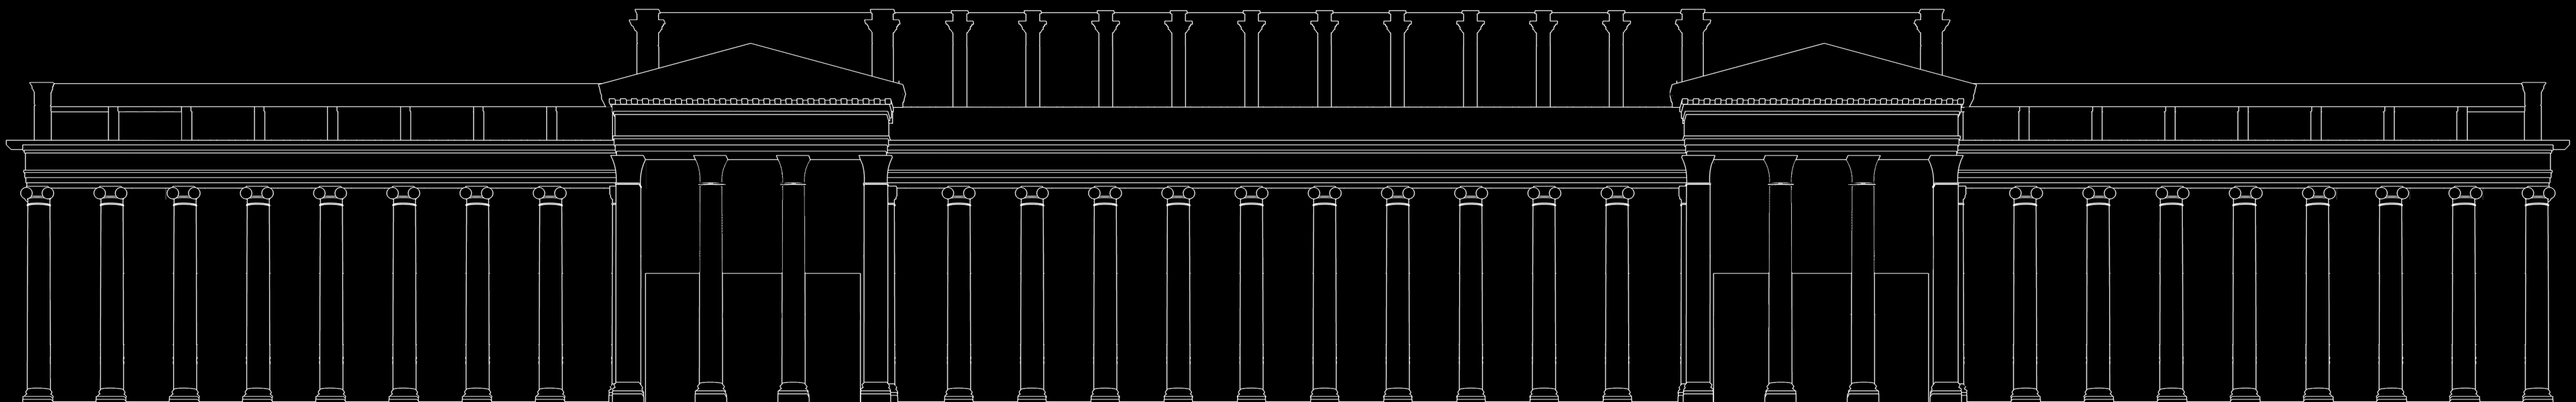
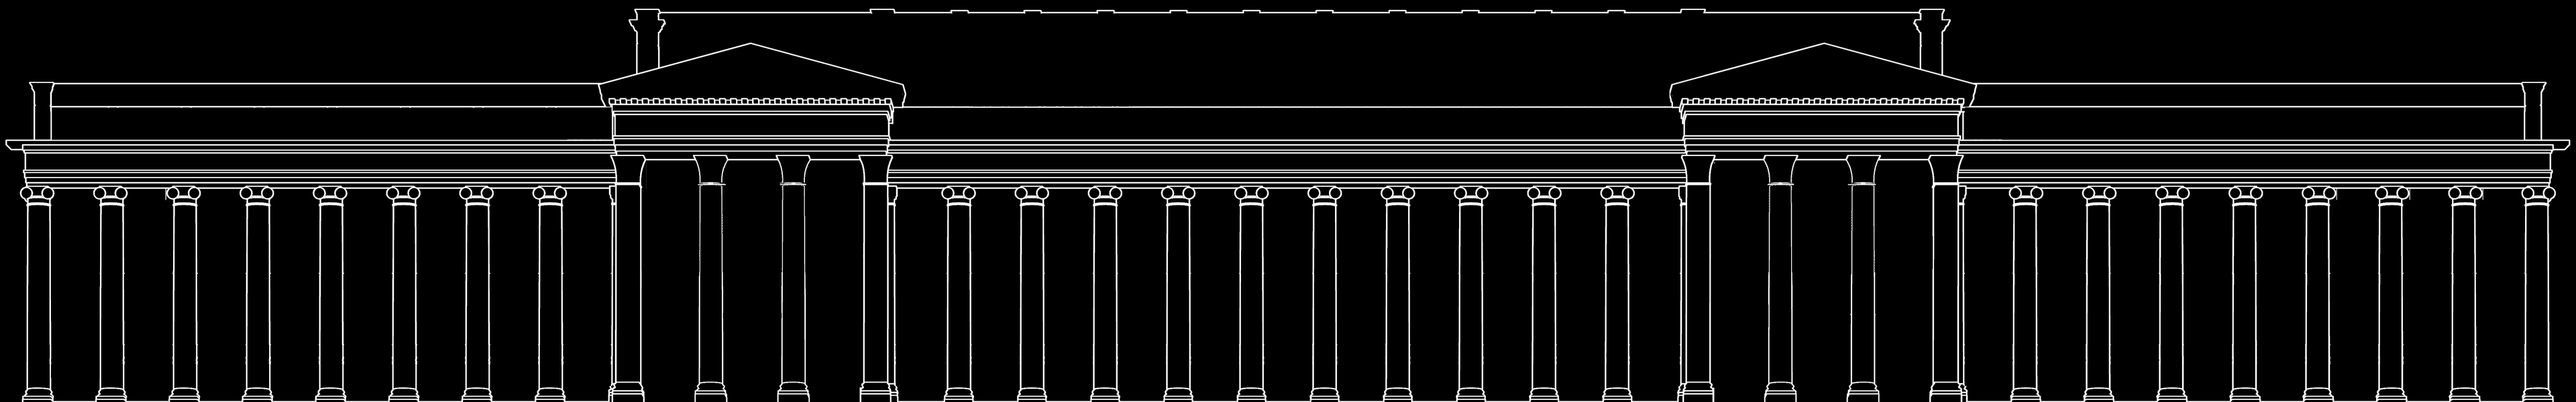
Statusseite: Fassadengrafik mit kraeftigeren Linien, Uebersicht ohne Punkt, Lupe weiss

diff --git a/public/status.html b/public/status.html
@@ -58,9 +58,11 @@
   .ausschnitt{aspect-ratio:64/30;margin-top:8px}
   .ausschnitt::before{background-size:300% 100%;background-position:var(--x,0) 0}
   /* Zeigt in der Übersicht, welcher Teil unten vergrößert ist. */
-  .lupe{position:absolute;top:0;bottom:0;border:1px solid rgba(255,207,107,.5);
-    border-radius:3px;background:rgba(255,207,107,.07);pointer-events:none}
-  .fassade.jetzt .lupe{border-color:rgba(126,224,168,.5);background:rgba(126,224,168,.07)}
+  /* Weiss, auch wenn die Botschaft gerade laeuft (04.11.2026). */
+  .lupe{position:absolute;top:0;bottom:0;border:1px solid rgba(255,255,255,.7);
+    border-radius:3px;background:rgba(255,255,255,.08);pointer-events:none}
+  /* Der Punkt steht nur im Ausschnitt — in der Uebersicht zeigt die Lupe den Bereich. */
+  .uebersicht .marke{display:none}
   /* Eine Säulenfläche ist 44 von 7680 breit — als Rechteck auf einem Handy
      wäre sie zwei Pixel schmal. Deshalb ein Punkt fester Größe auf ihrer
      Mitte: sichtbar, und die Stelle stimmt trotzdem. */
